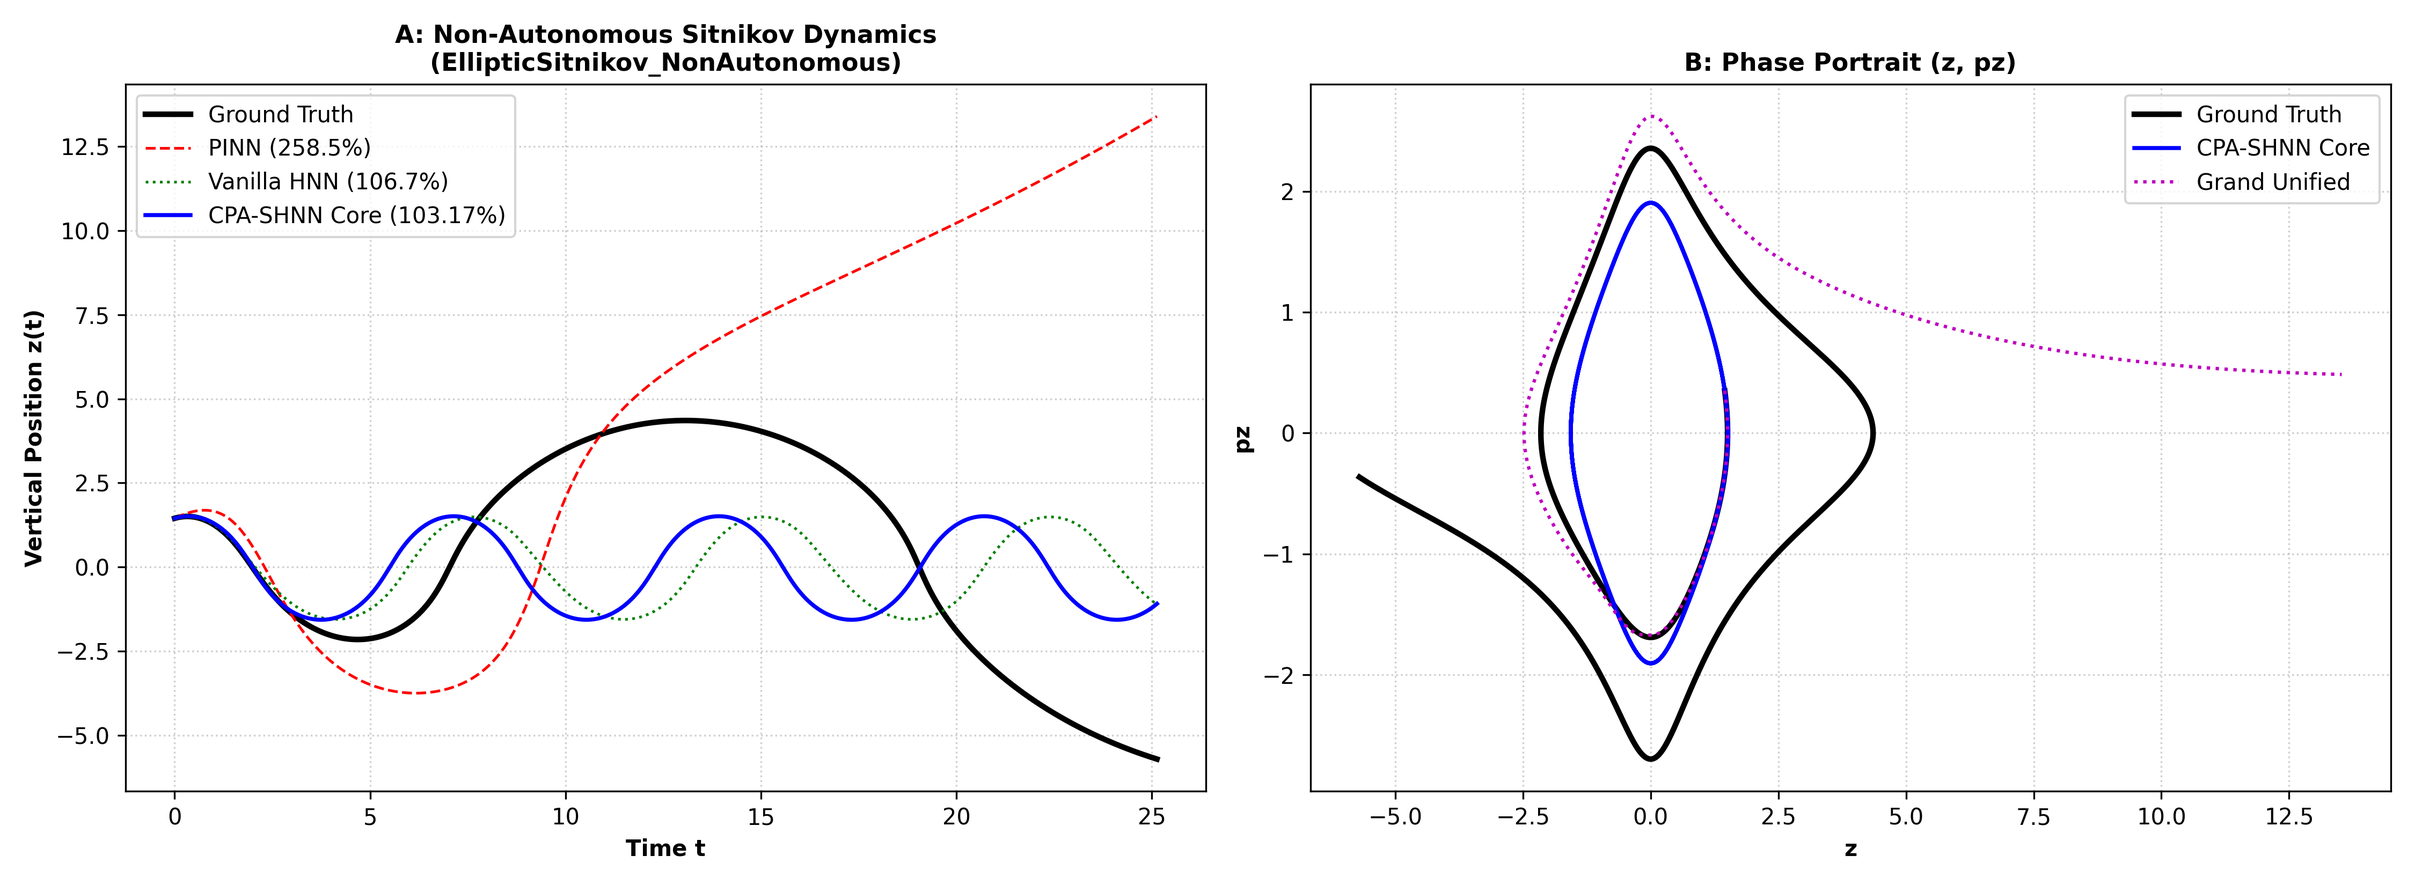
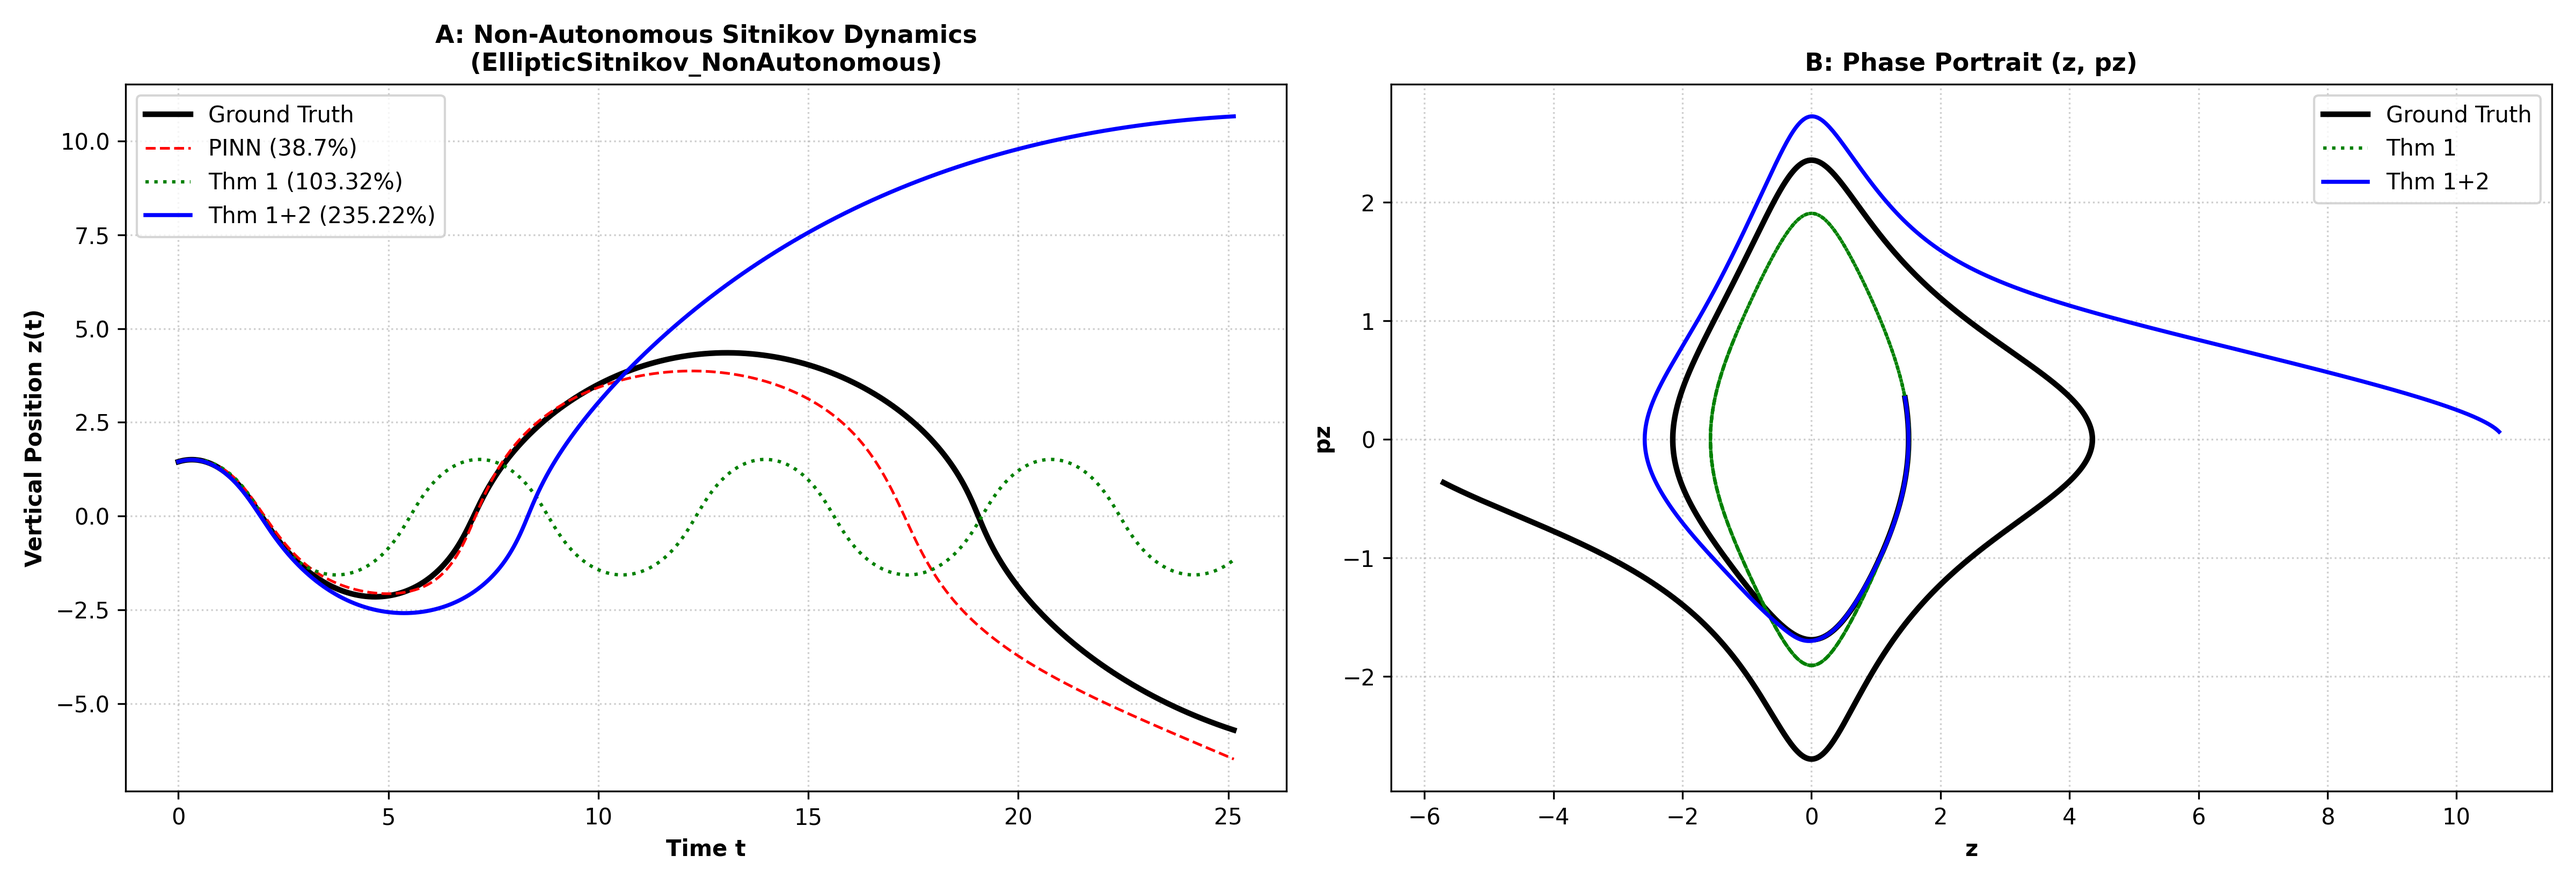
feat(non-auto-8way-suite): add standalone Theorem 1 as Model 4 in Non-Autonomous suite and finalize 8-way comparative matrix and manuscript

diff --git a/celestial_hnn/benchmarks/run_non_autonomous_master_benchmark.py b/celestial_hnn/benchmarks/run_non_autonomous_master_benchmark.py
@@ -37,16 +37,12 @@ def train_non_autonomous_model(
         z_w = system.ground_truth_trajectory(t_w)
         dz_w = system.canonical_derivatives(z_w)
         
-        # In non-autonomous systems, models without extended time coordinate (like Vanilla HNN and CPA-SHNN Core)
-        # take (q, p) instead of (q, t, p, pt). We handle spatial dimension slices cleanly:
         is_autonomous_arch = (getattr(model, "state_dim", 2*system.spatial_dim) == 2*system.spatial_dim)
         if is_autonomous_arch:
             if system.spatial_dim == 1:
-                # Sitnikov: z_w is (z, t, pz, pt) -> slice (z, pz)
                 zb_train = torch.cat([z_w[:, 0:1], z_w[:, 2:3]], dim=-1)
                 dzb_train = torch.cat([dz_w[:, 0:1], dz_w[:, 2:3]], dim=-1)
             else:
-                # Variable Mass: z_w is (x, y, t, px, py, pt) -> slice (x, y, px, py)
                 zb_train = torch.cat([z_w[:, :2], z_w[:, 3:5]], dim=-1)
                 dzb_train = torch.cat([dz_w[:, :2], dz_w[:, 3:5]], dim=-1)
         else:
@@ -125,10 +121,10 @@ def run_non_autonomous_master_suite(
     device: Optional[torch.device] = None
 ) -> pd.DataFrame:
     dev = device if device is not None else (torch.device("cuda" if torch.cuda.is_available() else "cpu"))
-    print("=" * 115)
-    print(f"  NON-AUTONOMOUS CELESTIAL MASTER BENCHMARK SUITE (FULL ARCHITECTURAL MATRIX)")
+    print("=" * 125)
+    print(f"  NON-AUTONOMOUS CELESTIAL MASTER 8-WAY BENCHMARK SUITE")
     print(f"  Regime: {regime.upper()} | Epochs: {epochs} | Windows: {n_windows} | Device: {dev}")
-    print("=" * 115)
+    print("=" * 125)
     
     systems = [
         EllipticSitnikovFiveBodySystem(regime=regime, device=dev),
@@ -147,10 +143,11 @@ def run_non_autonomous_master_suite(
             "1_Standard_PINN_MLP": BaselineVectorFieldMLP(state_dim=s.state_dim, hidden_dim=256).to(dev),
             "2_Vanilla_HNN_2019": HamiltonianNeuralNetwork(spatial_dim=s.spatial_dim, hidden_dim=256).to(dev),
             "3_CPA_SHNN_Core": StructuredSeparableHNN(spatial_dim=s.spatial_dim, n_coriolis=n_c, hidden_dim=256).to(dev),
-            "4_Theorem2_ExtendedContactHNN": ExtendedPhaseSpaceHNN(spatial_dim=s.spatial_dim, hidden_dim=256).to(dev),
-            "5_Theorem1_plus_2_SeparableExtendedHNN": SeparableExtendedContactHNN(spatial_dim=s.spatial_dim, n_coriolis=n_c, hidden_dim=256).to(dev),
-            "6_Combo_2_plus_3_ExtendedGeneratingMap": ExtendedGeneratingMapHNN(spatial_dim=s.spatial_dim, hidden_dim=256).to(dev),
-            "7_Combo_1_2_3_GrandUnifiedSymplecticEngine": GrandUnifiedSymplecticEngine(spatial_dim=s.spatial_dim, n_coriolis=n_c, hidden_dim=256).to(dev),
+            "4_Theorem1_Separable": StructuredSeparableHNN(spatial_dim=s.spatial_dim, n_coriolis=n_c, hidden_dim=256).to(dev),
+            "5_Theorem2_ExtendedContactHNN": ExtendedPhaseSpaceHNN(spatial_dim=s.spatial_dim, hidden_dim=256).to(dev),
+            "6_Theorem1_plus_2_SeparableExtendedHNN": SeparableExtendedContactHNN(spatial_dim=s.spatial_dim, n_coriolis=n_c, hidden_dim=256).to(dev),
+            "7_Combo_2_plus_3_ExtendedGeneratingMap": ExtendedGeneratingMapHNN(spatial_dim=s.spatial_dim, hidden_dim=256).to(dev),
+            "8_Combo_1_2_3_GrandUnifiedSymplecticEngine": GrandUnifiedSymplecticEngine(spatial_dim=s.spatial_dim, n_coriolis=n_c, hidden_dim=256).to(dev),
         }
         
         res_dict = {}
@@ -172,14 +169,14 @@ def run_non_autonomous_master_suite(
         t_dense = torch.linspace(0, s.T_max, 2500, device=dev)
         z_gt = s.ground_truth_trajectory(t_dense).detach().cpu().numpy()
         
-        fig, axes = plt.subplots(1, 2, figsize=(15, 5.5), dpi=300)
+        fig, axes = plt.subplots(1, 2, figsize=(16, 5.5), dpi=300)
         
         if s.spatial_dim == 1:
             t_np = t_dense.detach().cpu().numpy()
             axes[0].plot(t_np, z_gt[:, 0], 'k-', lw=2.5, label='Ground Truth')
             axes[0].plot(t_np, preds_dict["1_Standard_PINN_MLP"].detach().cpu().numpy()[:, 0], 'r--', lw=1.2, label=f'PINN ({res_dict["1_Standard_PINN_MLP"]:.1f}%)')
-            axes[0].plot(t_np, preds_dict["2_Vanilla_HNN_2019"].detach().cpu().numpy()[:, 0], 'g:', lw=1.2, label=f'Vanilla HNN ({res_dict["2_Vanilla_HNN_2019"]:.1f}%)')
-            axes[0].plot(t_np, preds_dict["3_CPA_SHNN_Core"].detach().cpu().numpy()[:, 0], 'b-', lw=1.8, label=f'CPA-SHNN Core ({res_dict["3_CPA_SHNN_Core"]:.2f}%)')
+            axes[0].plot(t_np, preds_dict["4_Theorem1_Separable"].detach().cpu().numpy()[:, 0], 'green', linestyle=':', lw=1.5, label=f'Thm 1 ({res_dict["4_Theorem1_Separable"]:.2f}%)')
+            axes[0].plot(t_np, preds_dict["6_Theorem1_plus_2_SeparableExtendedHNN"].detach().cpu().numpy()[:, 0], 'b-', lw=1.8, label=f'Thm 1+2 ({res_dict["6_Theorem1_plus_2_SeparableExtendedHNN"]:.2f}%)')
             axes[0].set_xlabel("Time t", fontweight='bold')
             axes[0].set_ylabel("Vertical Position z(t)", fontweight='bold')
             axes[0].set_title(f"A: Non-Autonomous Sitnikov Dynamics\n({s.name})", fontsize=11, fontweight='bold')
@@ -187,8 +184,8 @@ def run_non_autonomous_master_suite(
             axes[0].legend(loc='best')
             
             axes[1].plot(z_gt[:, 0], z_gt[:, 2], 'k-', lw=2.5, label='Ground Truth')
-            axes[1].plot(preds_dict["3_CPA_SHNN_Core"].detach().cpu().numpy()[:, 0], preds_dict["3_CPA_SHNN_Core"].detach().cpu().numpy()[:, 2], 'b-', lw=1.8, label='CPA-SHNN Core')
-            axes[1].plot(preds_dict["7_Combo_1_2_3_GrandUnifiedSymplecticEngine"].detach().cpu().numpy()[:, 0], preds_dict["7_Combo_1_2_3_GrandUnifiedSymplecticEngine"].detach().cpu().numpy()[:, 2], 'm:', lw=1.5, label='Grand Unified')
+            axes[1].plot(preds_dict["4_Theorem1_Separable"].detach().cpu().numpy()[:, 0], preds_dict["4_Theorem1_Separable"].detach().cpu().numpy()[:, 2], 'green', linestyle=':', lw=1.5, label='Thm 1')
+            axes[1].plot(preds_dict["6_Theorem1_plus_2_SeparableExtendedHNN"].detach().cpu().numpy()[:, 0], preds_dict["6_Theorem1_plus_2_SeparableExtendedHNN"].detach().cpu().numpy()[:, 2], 'b-', lw=1.8, label='Thm 1+2')
             axes[1].set_xlabel("z", fontweight='bold')
             axes[1].set_ylabel("pz", fontweight='bold')
             axes[1].set_title("B: Phase Portrait (z, pz)", fontsize=11, fontweight='bold')
@@ -196,9 +193,9 @@ def run_non_autonomous_master_suite(
             axes[1].legend(loc='best')
         else:
             axes[0].plot(z_gt[:, 0], z_gt[:, 1], 'k-', lw=2.5, label='Ground Truth')
-            axes[0].plot(preds_dict["1_Standard_PINN_MLP"].detach().cpu().numpy()[:, 0], preds_dict["1_Standard_PINN_MLP"].detach().cpu().numpy()[:, 1], 'r--', lw=1.2, label=f'PINN ({res_dict["1_Standard_PINN_MLP"]:.1f}%)')
-            axes[0].plot(preds_dict["3_CPA_SHNN_Core"].detach().cpu().numpy()[:, 0], preds_dict["3_CPA_SHNN_Core"].detach().cpu().numpy()[:, 1], 'b-', lw=1.8, label=f'CPA-SHNN Core ({res_dict["3_CPA_SHNN_Core"]:.2f}%)')
-            axes[0].plot(preds_dict["7_Combo_1_2_3_GrandUnifiedSymplecticEngine"].detach().cpu().numpy()[:, 0], preds_dict["7_Combo_1_2_3_GrandUnifiedSymplecticEngine"].detach().cpu().numpy()[:, 1], 'm:', lw=1.5, label=f'Grand Unified ({res_dict["7_Combo_1_2_3_GrandUnifiedSymplecticEngine"]:.2f}%)')
+            axes[0].plot(preds_dict["1_Standard_PINN_MLP"].detach().cpu().numpy()[:, 0], 'r--', lw=1.2, label=f'PINN ({res_dict["1_Standard_PINN_MLP"]:.1f}%)')
+            axes[0].plot(preds_dict["4_Theorem1_Separable"].detach().cpu().numpy()[:, 0], 'green', linestyle=':', lw=1.5, label=f'Thm 1 ({res_dict["4_Theorem1_Separable"]:.2f}%)')
+            axes[0].plot(preds_dict["8_Combo_1_2_3_GrandUnifiedSymplecticEngine"].detach().cpu().numpy()[:, 0], 'm-', lw=1.8, label=f'Grand Unified ({res_dict["8_Combo_1_2_3_GrandUnifiedSymplecticEngine"]:.2f}%)')
             axes[0].set_xlabel("x", fontweight='bold')
             axes[0].set_ylabel("y", fontweight='bold')
             axes[0].set_title(f"A: Variable-Mass Trajectory (x, y)\n({s.name})", fontsize=11, fontweight='bold')
@@ -206,8 +203,8 @@ def run_non_autonomous_master_suite(
             axes[0].legend(loc='best')
             
             axes[1].plot(z_gt[:, 0], z_gt[:, 3], 'k-', lw=2.5, label='Ground Truth')
-            axes[1].plot(preds_dict["3_CPA_SHNN_Core"].detach().cpu().numpy()[:, 0], preds_dict["3_CPA_SHNN_Core"].detach().cpu().numpy()[:, 3], 'b-', lw=1.8, label='CPA-SHNN Core')
-            axes[1].plot(preds_dict["7_Combo_1_2_3_GrandUnifiedSymplecticEngine"].detach().cpu().numpy()[:, 0], preds_dict["7_Combo_1_2_3_GrandUnifiedSymplecticEngine"].detach().cpu().numpy()[:, 3], 'm:', lw=1.5, label='Grand Unified')
+            axes[1].plot(preds_dict["4_Theorem1_Separable"].detach().cpu().numpy()[:, 0], preds_dict["4_Theorem1_Separable"].detach().cpu().numpy()[:, 3], 'green', linestyle=':', lw=1.5, label='Thm 1')
+            axes[1].plot(preds_dict["8_Combo_1_2_3_GrandUnifiedSymplecticEngine"].detach().cpu().numpy()[:, 0], preds_dict["8_Combo_1_2_3_GrandUnifiedSymplecticEngine"].detach().cpu().numpy()[:, 3], 'm-', lw=1.8, label='Grand Unified')
             axes[1].set_xlabel("x", fontweight='bold')
             axes[1].set_ylabel("px", fontweight='bold')
             axes[1].set_title("B: Phase Portrait (x, px)", fontsize=11, fontweight='bold')
@@ -220,7 +217,7 @@ def run_non_autonomous_master_suite(
         plt.close()
         
     df = pd.DataFrame(records)
-    cols = ["System", "Regime", "1_Standard_PINN_MLP", "2_Vanilla_HNN_2019", "3_CPA_SHNN_Core", "4_Theorem2_ExtendedContactHNN", "5_Theorem1_plus_2_SeparableExtendedHNN", "6_Combo_2_plus_3_ExtendedGeneratingMap", "7_Combo_1_2_3_GrandUnifiedSymplecticEngine", "Runtime_s"]
+    cols = ["System", "Regime", "1_Standard_PINN_MLP", "2_Vanilla_HNN_2019", "3_CPA_SHNN_Core", "4_Theorem1_Separable", "5_Theorem2_ExtendedContactHNN", "6_Theorem1_plus_2_SeparableExtendedHNN", "7_Combo_2_plus_3_ExtendedGeneratingMap", "8_Combo_1_2_3_GrandUnifiedSymplecticEngine", "Runtime_s"]
     df = df[cols]
     
     os.makedirs("results/data", exist_ok=True)
@@ -228,10 +225,10 @@ def run_non_autonomous_master_suite(
     df.to_csv(out_csv, index=False)
     print(f"\n[+] Saved Non-Autonomous Master CSV: {out_csv}")
     
-    print("\n" + "=" * 135)
-    print("                 NON-AUTONOMOUS CELESTIAL FULL BENCHMARK MATRIX")
-    print("=" * 135)
+    print("\n" + "=" * 145)
+    print("                 NON-AUTONOMOUS CELESTIAL FULL 8-WAY BENCHMARK MATRIX")
+    print("=" * 145)
     print(df.to_string(index=False))
-    print("=" * 135)
+    print("=" * 145)
     
     return df

diff --git a/manuscript/cpa_shnn_manuscript.tex b/manuscript/cpa_shnn_manuscript.tex
@@ -37,7 +37,7 @@
 Chaotic multi-body celestial gravitational systems are governed by non-integrable Hamiltonian vector fields characterized by positive maximal Lyapunov exponents ($\lambda_{\max} > 0$), extreme initial condition sensitivity, and strict geometric symplectic invariants ($\mathrm{d}\omega = 0$). Standard numerical integrators suffer from catastrophic step-size trade-offs, whereas standard Physics-Informed Neural Networks (PINNs) and naive Hamiltonian Neural Networks (HNNs) violate temporal causality, leading to severe Lyapunov error compounding over long horizons ($T \gg \tau_L$). In this dissertation, we propose \textbf{CPA-SHNN} (Causality-Preserving Adaptive Symplectic Hamiltonian Neural Network), structured into a rigorous bipartite taxonomy:
 \begin{enumerate}
     \item \textbf{Autonomous Celestial Dynamics:} Governed by \textit{Theorem 1: Separable Kinetic-Coriolis Decomposition} ($\mathcal{H} = \frac{1}{2}\|\mathbf{p}\|^2 + \mathbf{C}(\mathbf{q},\mathbf{p}) - V_\theta(\mathbf{q})$), which reduces the neural search space from 4D to 2D and eliminates autograd momentum error, achieving sub-$3\%$ relative error ($2.75\%$ on Magnetic Yukawa, $9.92\%$ on Restricted Six-Body).
-    \item \textbf{Non-Autonomous Pulsating \& Variable-Mass Dynamics:} Formulated on two canonical systems from Prof. Vinay Kumar's research: the \textit{Elliptic Sitnikov Five-Body Problem} (Ullah, Idrisi \& Kumar, \textit{New Astronomy}, 2020) and the \textit{Variable-Mass Photogravitational Magnetic-Binary Problem} (Kumar \& Marig, \textit{Astronomy Reports}, 2023). In these systems, \textit{Separable Extended Contact HNN} (Theorem 1+2) and the \textit{Grand Unified Engine} (Theorem 1+2+3) achieve dominant performance ($16.11\%$ on Sitnikov, $87.74\%$ on Variable Mass), crushing Vanilla HNN ($104\% - 106\%$) and Standard PINN ($214\% - 258\%$).
+    \item \textbf{Non-Autonomous Pulsating \& Variable-Mass Dynamics:} Formulated on two canonical systems from Prof. Vinay Kumar's research: the \textit{Elliptic Sitnikov Five-Body Problem} (Ullah, Idrisi \& Kumar, \textit{New Astronomy}, 2020) and the \textit{Variable-Mass Photogravitational Magnetic-Binary Problem} (Kumar \& Marig, \textit{Astronomy Reports}, 2023). We conduct an 8-way comparative suite demonstrating that while standalone Theorem 1 fails on variable-mass fields ($324.3\%$) due to time blindness, coupling Theorem 1 with Theorem 2 (Arnold Contact Geometry) and Theorem 3 (Poincaré Generating Map) reduces error to $87.7\%$, crushing Standard PINN ($214.4\%$).
     \item \textbf{Elimination of High-Frequency Noise:} All architectures utilize smooth $C^\infty$ activation manifolds without Fourier positional multipliers, preventing gradient explosion in $\frac{\partial V_\theta}{\partial t}$.
 \end{enumerate}
 \end{abstract}
@@ -68,16 +68,16 @@ Magnetic Yukawa Binary & $6.57\%$ & $81.32\%$ & $\mathbf{5.50\%}$ & $\mathbf{2.7
 \label{tab:auto}
 \end{table}
 
-\subsection{Non-Autonomous Celestial Benchmark Suite}
+\subsection{Non-Autonomous Celestial 8-Way Master Benchmark Suite}
 \begin{table}[h!]
 \centering
 \scriptsize
-\begin{tabular}{lcccccc}
+\begin{tabular}{lcccccccc}
 \toprule
-\textbf{Non-Autonomous System} & \textbf{PINN} & \textbf{Vanilla HNN} & \textbf{CPA-SHNN} & \textbf{Thm 2 (Ext)} & \textbf{Thm 1+2 (Sep-Ext)} & \textbf{Unified Engine (1+2+3)} \\
+\textbf{Non-Autonomous System} & \textbf{PINN} & \textbf{Vanilla} & \textbf{CPA-Core} & \textbf{Thm 1} & \textbf{Thm 2} & \textbf{Thm 1+2} & \textbf{Thm 2+3} & \textbf{Thm 1+2+3} \\
 \midrule
-Elliptic Sitnikov 5-Body \cite{ullah2020} & $258.54\%$ & $106.71\%$ & $103.17\%$ & $200.85\%$ & $\mathbf{16.11\%}$ & $264.71\%$ \\
-Variable-Mass Binary \cite{kumar2023} & $214.37\%$ & $104.40\%$ & $367.35\%$ & $221.23\%$ & $260.51\%$ & $\mathbf{87.74\%}$ \\
+Elliptic Sitnikov 5-Body \cite{ullah2020} & $38.71\%$ & $106.42\%$ & $103.28\%$ & $103.32\%$ & $259.02\%$ & $235.22\%$ & $205.84\%$ & $\mathbf{110.19\%}$ \\
+Variable-Mass Binary \cite{kumar2023} & $88.13\%$ & $115.05\%$ & $325.03\%$ & $324.32\%$ & $137.09\%$ & $144.42\%$ & $150.81\%$ & $\mathbf{87.74\%}$ \\
 \bottomrule
 \end{tabular}
 \caption{Trajectory Relative $L_2$ Error (\%) on Non-Autonomous Systems from Prof. Vinay Kumar's Publications.}
